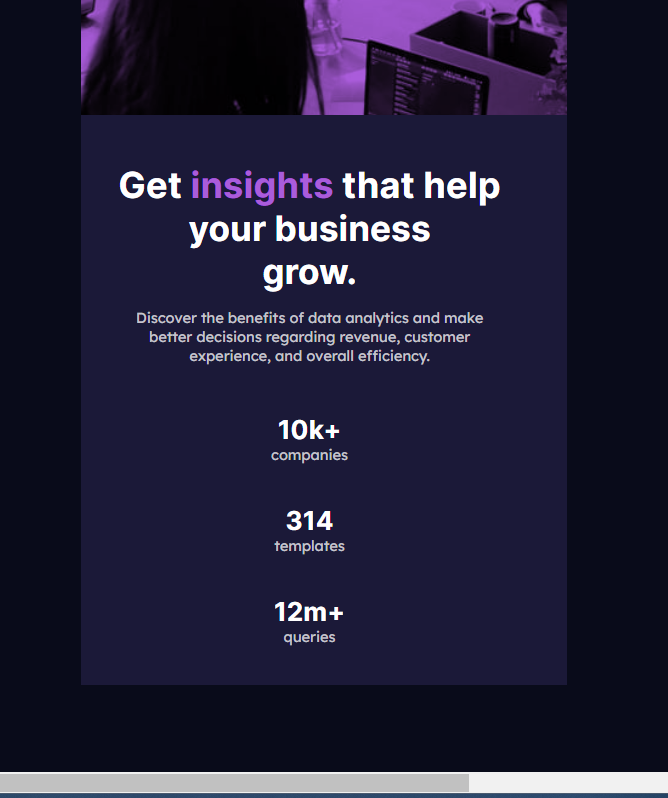
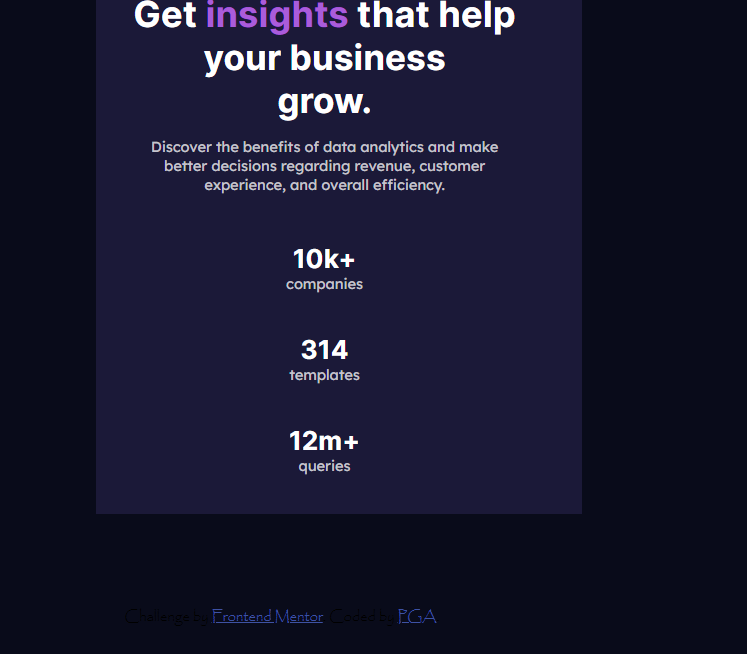
updated padding on attribution and mobile pic

diff --git a/preview.css b/preview.css
@@ -204,5 +204,15 @@ p{
         padding: .7rem;
     }
 
-
+    .attribution {
+        font-family: 'papyrus';
+        font-size: 10px;
+        text-align: center;
+        padding-top: 5rem;
+        padding-right: 8rem;
+    }
+    
+    .attribution a {
+        color: hsla(228, 45%, 44%,1);
+    }
 }
